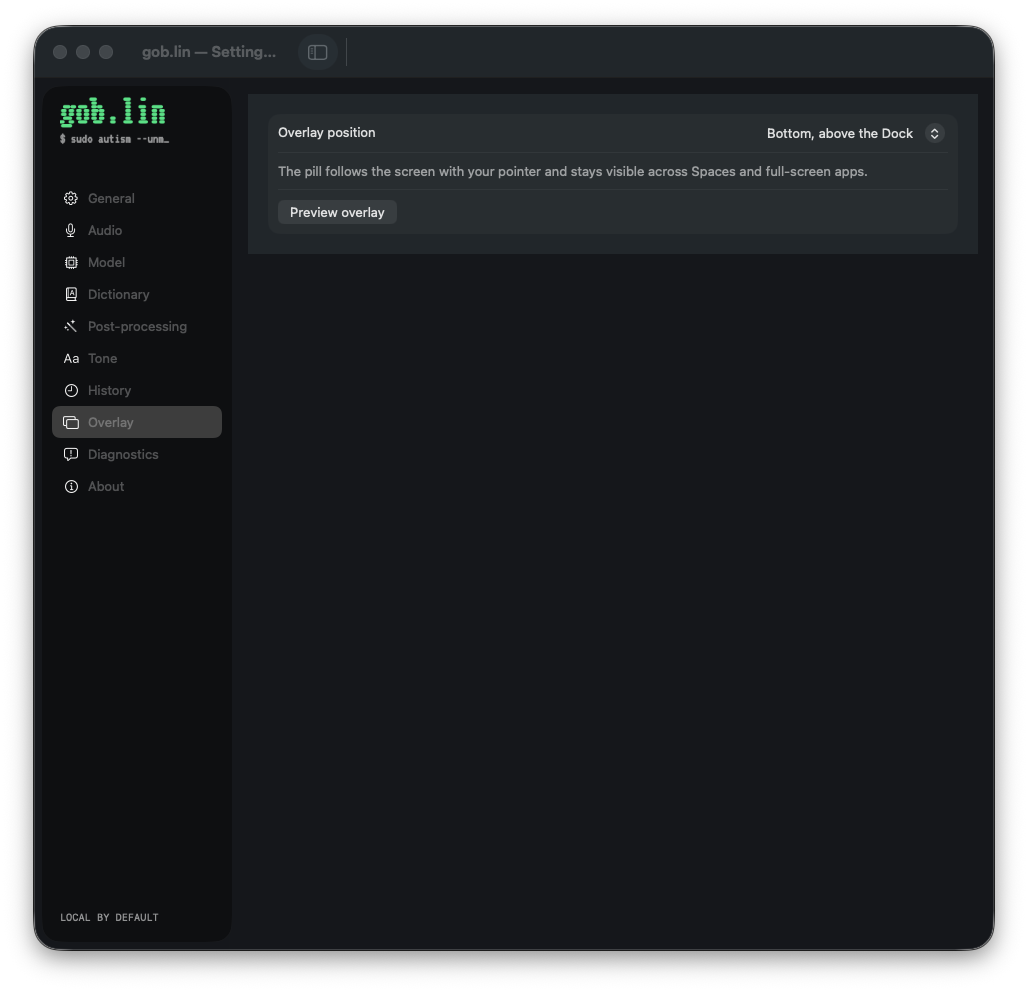
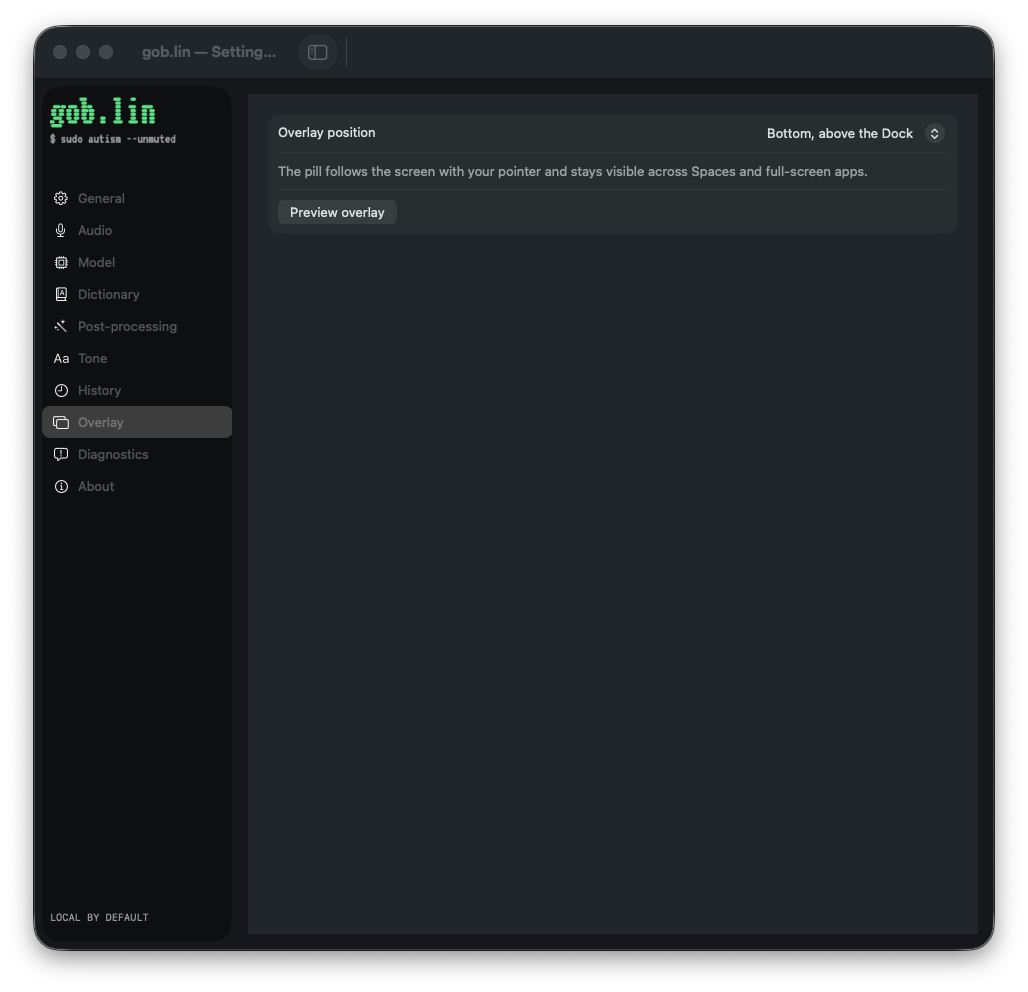
Capture all final settings, branding, menu, and overlay states

diff --git a/scripts/capture-settings.swift b/scripts/capture-settings.swift
@@ -18,6 +18,8 @@ struct SettingsCapture {
             DictionaryEntry(spelling: "gob.lin", aliases: ["goblin"]),
             DictionaryEntry(spelling: "Postgres", aliases: ["post grass"]),
         ])
+        defaults.set(try JSONEncoder().encode(HistoryRetention(maximumUnstarredCount: 500, maximumAgeDays: 30)), forKey: "history.retention")
+        try RewriteSettingsStore.save(RewriteSettings(enabled: false, baseURL: "https://provider.invalid/v1", model: "example-model", cleanup: .light), defaults: defaults)
         let model = AppModel(dataDirectory: directory, defaults: defaults, servicesEnabled: false,
             diagnosticEnvironment: DiagnosticEnvironment(microphonePermission: .notRequested,
                 accessibilityPermission: .denied, inputMonitoringPermission: .denied,
@@ -28,7 +30,7 @@ struct SettingsCapture {
         let window = NSWindow(contentRect: NSRect(x: 0, y: 0, width: 960, height: 840),
             styleMask: [.titled, .closable, .resizable], backing: .buffered, defer: false)
         window.title = "gob.lin — Settings capture"
-        window.contentView = NSHostingView(rootView: SettingsView(model: model))
+        window.contentView = NSHostingView(rootView: SettingsView(model: model).allowsHitTesting(false))
         window.center()
         window.makeKeyAndOrderFront(nil)
         app.activate()
@@ -37,9 +39,13 @@ struct SettingsCapture {
         var captureFailed = false
         let capture = Task { @MainActor in
             do {
+                try await Task.sleep(for: .milliseconds(700))
+                precondition(model.dictionary.entries.count == 3 && model.dictionary.available)
                 try FileManager.default.createDirectory(at: destination, withIntermediateDirectories: true)
-                let pages: [(SettingsSection, String)] = [(.general, "general"), (.audio, "audio"), (.dictionary, "dictionary"),
-                    (.tone, "tone"), (.rewrite, "rewrite"), (.overlay, "overlay"), (.diagnostics, "diagnostics")]
+                let pages: [(SettingsSection, String)] = [(.general, "general"), (.audio, "audio"), (.model, "model"),
+                    (.dictionary, "dictionary"), (.rewrite, "rewrite"), (.tone, "tone"), (.history, "history"),
+                    (.overlay, "overlay"), (.diagnostics, "diagnostics"), (.about, "about")]
+                precondition(Set(pages.map(\.0)) == Set(SettingsSection.allCases))
                 for (page, name) in pages {
                     model.settingsSelection = page
                     if page == .diagnostics {
@@ -47,14 +53,32 @@ struct SettingsCapture {
                         model.diagnostics.recordTimings(DictationTimings(asrMilliseconds: 180, rewriteMilliseconds: 12))
                     }
                     try await Task.sleep(for: .milliseconds(700))
-                    let screenshot = Process()
-                    screenshot.executableURL = URL(fileURLWithPath: "/usr/sbin/screencapture")
-                    screenshot.arguments = ["-x", "-l", String(window.windowNumber),
-                        destination.appendingPathComponent("gob-22-settings-\(name).png").path]
-                    try screenshot.run()
-                    screenshot.waitUntilExit()
-                    guard screenshot.terminationStatus == 0 else { throw CaptureError.screenshot }
+                    try snapshot(window, to: destination.appendingPathComponent("gob-22-settings-\(name).png"))
                     print("Captured \(page.rawValue)")
+                }
+                window.title = "gob.lin — Branding and menu capture"
+                window.setContentSize(NSSize(width: 660, height: 760))
+                window.contentView = NSHostingView(rootView: BrandCaptureView(model: model).allowsHitTesting(false))
+                window.center()
+                try await Task.sleep(for: .milliseconds(700))
+                try snapshot(window, to: destination.appendingPathComponent("gob-19-brand-menu-final.png"))
+                print("Captured production wordmark, four status images, and production menu view")
+                window.setContentSize(NSSize(width: 620, height: 370))
+                window.center()
+                let phases: [(OverlayPhase, String)] = [(.arming, "arming"), (.listening, "listening"),
+                    (.transcribing, "transcribing"), (.polishing, "polishing"), (.error("polish failed — pasted raw"), "error")]
+                for (phase, name) in phases {
+                    window.title = "gob.lin — Overlay \(name) capture"
+                    let overlay = OverlayModel()
+                    overlay.phase = phase
+                    overlay.audioLevel = phase == .listening ? 0.65 : 0
+                    overlay.committedText = phase == .listening ? "Ship the small things. Keep your hands on the keyboard." : ""
+                    overlay.tentativeText = phase == .listening ? "Let the goblin do the typing." : ""
+                    window.contentView = NSHostingView(rootView: DictationOverlay(model: overlay)
+                        .frame(maxWidth: .infinity, maxHeight: .infinity).background(GoblinBrand.surface).allowsHitTesting(false))
+                    try await Task.sleep(for: .milliseconds(700))
+                    try snapshot(window, to: destination.appendingPathComponent("gob-12-overlay-\(name)-final.png"))
+                    print("Captured production overlay \(name) view")
                 }
             } catch { captureFailed = true; print("Settings capture failed: \(error)") }
             await model.shutdown()
@@ -78,5 +102,38 @@ struct SettingsCapture {
         timeout.invalidate()
         if captureFailed { exit(1) }
     }
+    @MainActor private static func snapshot(_ window: NSWindow, to file: URL) throws {
+        let screenshot = Process()
+        screenshot.executableURL = URL(fileURLWithPath: "/usr/sbin/screencapture")
+        screenshot.arguments = ["-x", "-l", String(window.windowNumber), file.path]
+        try screenshot.run()
+        screenshot.waitUntilExit()
+        guard screenshot.terminationStatus == 0 else { throw CaptureError.screenshot }
+    }
+
     enum CaptureError: Error { case screenshot }
+}
+
+/// Uses the production menu extracted into the build directory with only its visibility changed.
+private struct BrandCaptureView: View {
+    @ObservedObject var model: AppModel
+    var body: some View {
+        VStack(alignment: .leading, spacing: 22) {
+            GoblinWordmark().fixedSize()
+            HStack(spacing: 28) {
+                ForEach(MascotState.allCases, id: \.self) { state in
+                    VStack(spacing: 8) {
+                        Image(nsImage: GoblinBrand.menuImage(state)).renderingMode(.original)
+                        Text(state.rawValue.capitalized).font(.caption)
+                    }
+                }
+            }
+            Divider()
+            Text("Menu").font(.headline)
+            VStack(alignment: .leading, spacing: 14) { GoblinMenu(model: model) }
+                .buttonStyle(.plain)
+            Spacer(minLength: 0)
+        }.padding(32).frame(maxWidth: .infinity, maxHeight: .infinity, alignment: .topLeading)
+            .background(GoblinBrand.surface).preferredColorScheme(.dark)
+    }
 }

diff --git a/docs/screenshots/gob-22-capture-notes.md b/docs/screenshots/gob-22-capture-notes.md
@@ -1,9 +1,28 @@
-# GOB-22 integrated native Settings capture
+# Final integrated native UI capture
 
-Captured the actual SettingsView in a 960×840 NSWindow using `scripts/capture-settings.sh`. AppModel uses temporary history/dictionary storage, an isolated UserDefaults suite, a private pasteboard, synthetic device/diagnostic state, and disabled system services. AI cleanup stays disabled and Keychain inspection is disabled. No microphone capture, credential request, or permission change occurs.
+These images capture feature source `89b7e5fa51e8ccc0df200460ce9e7158c7441fa0`, including the reviewed Settings layout and wordmark fixes. Run `scripts/capture-settings.sh` from the repository to reproduce them on arm64 macOS 26.
 
-Seven window-only screenshots cover General, Audio, Dictionary, Tone, Post-processing, Overlay, and Diagnostics. The diagnostics timing and pending-engine warning are synthetic, explicitly supplied by the fixture. The capture never screenshots the desktop or another application.
+The fixture hosts the actual SettingsView in a 960×840 NSWindow. It uses temporary history/dictionary storage, an isolated UserDefaults suite, a private pasteboard, synthetic device/permission/diagnostic state, and disabled system services. Hit testing is disabled so capture cannot invoke settings actions, open files, copy diagnostics, or paste text. Keychain inspection and cleanup requests stay disabled. The configured example endpoint uses the reserved `.invalid` domain. No live recording or permission change occurs.
 
-The initial Dictionary screenshot confirms its List collapses inside the settings ScrollView even with three saved terms. This evidence triggered the separately reviewed GOB-18 layout fix; it must be recaptured after integration. Post-processing and Overlay grouped Forms show all controls at this window size. The sidebar tagline in this capture predates the GOB-19 sizing fix.
+All ten Settings sections were visually inspected. Source bindings were checked against AppModel's shared child models and the fixture's isolated preferences:
 
-Shutdown calls the real GoblinApplicationDelegate. Quit is delivered through a run-loop timer: calling AppKit terminate from a Swift MainActor task or a main-dispatch block can starve the delegate's asynchronous reply inside AppKit's nested loop. The final capture run exited normally (owned PID85102); the two earlier hung fixture PIDs were sampled and terminated individually. A common-mode timeout exits the fixture if any capture or termination stalls. No preview remains after the successful run.
+| Section | Capture and visible checks | Bound source |
+| --- | --- | --- |
+| General | [Shortcuts, feedback sounds, trailing space, permission button](gob-22-settings-general.png) | Shared HotkeyService/TextInsertionService; isolated defaultAppStorage |
+| Audio | [System-default picker, level meter, preview disabled pending permission](gob-22-settings-audio.png) | Shared AudioPreviewModel and PermissionModel; `audio.inputDeviceUID` |
+| Model | [Candidate visible and picker disabled while benchmark is pending](gob-22-settings-model.png) | Production benchmark placeholder; no adapter supplied |
+| Dictionary | [Three rows, aliases, Edit/Delete, Add/Import, footer](gob-22-settings-dictionary.png) | Shared DictionaryModel loaded from temporary versioned JSON |
+| Post-processing | [Disabled cleanup, example endpoint/model, empty key, Light, Save](gob-22-settings-rewrite.png) | RewriteSettingsStore using injected defaults; inspectKeychain=false |
+| Tone | [Three choices and previews, Formal selected](gob-22-settings-tone.png) | DictationTone.preferenceKey in isolated defaultAppStorage |
+| History | [Keep latest 500, 30 days, deletion explanation, Apply](gob-22-settings-history.png) | Shared HistoryModel.retention initialized from isolated JSON preferences |
+| Overlay | [Bottom position, complete explanation and Preview control](gob-22-settings-overlay.png) | `overlayPosition` in isolated defaultAppStorage; shared controller |
+| Diagnostics | [Pending-model warning, environment, stage timings, recent error, Copy](gob-22-settings-diagnostics.png) | Same shared DiagnosticsModel used by the menu; synthetic 180 ms ASR / 12 ms rewrite |
+| About | [Full wordmark/tagline, version, data/log buttons and bundled licences](gob-22-settings-about.png) | GoblinMetadata and GoblinBrand's actual bundled assets |
+
+The full `$ sudo autism --unmuted` tagline is visible throughout. The original collapsed Dictionary capture is preserved as [before](gob-22-settings-dictionary-before.png); the default Dictionary image now shows the fixed list. The fixture asserts that all SettingsSection cases are covered and the three dictionary terms loaded successfully.
+
+[Branding and menu](gob-19-brand-menu-final.png) shows the production GoblinWordmark, the four actual GoblinBrand.menuImage states, and the exact production GoblinMenu view. The build script extracts the menu into the ignored build directory with only its type visibility changed; its content and bindings stay unchanged. The menu is hosted in an inspection window, so this image does not claim to test macOS's MenuBarExtra popup or menu actions.
+
+Five images host the production DictationOverlay with explicit synthetic state: [arming](gob-12-overlay-arming-final.png), [listening](gob-12-overlay-listening-final.png), [transcribing](gob-12-overlay-transcribing-final.png), [polishing](gob-12-overlay-polishing-final.png), and [error](gob-12-overlay-error-final.png). Each state uses a fresh native host; transitions are not exercised by these captures. The waveform and text are supplied by the fixture. These show the native view, goblin/hands assets, captions, and cancel control; they do not demonstrate real capture, recognition, physical display placement, Spaces, or focus behavior.
+
+Every image captures only the owned native window. The desktop and private application windows are excluded. The fixture cleans up its suite/data, stops its AppModel, and requests quit through a run-loop timer using the real GoblinApplicationDelegate. A common-mode timeout prevents a stalled capture from leaving an instance open. The final capture process (owned PID14484) exited normally with status zero and was verified absent afterward.
